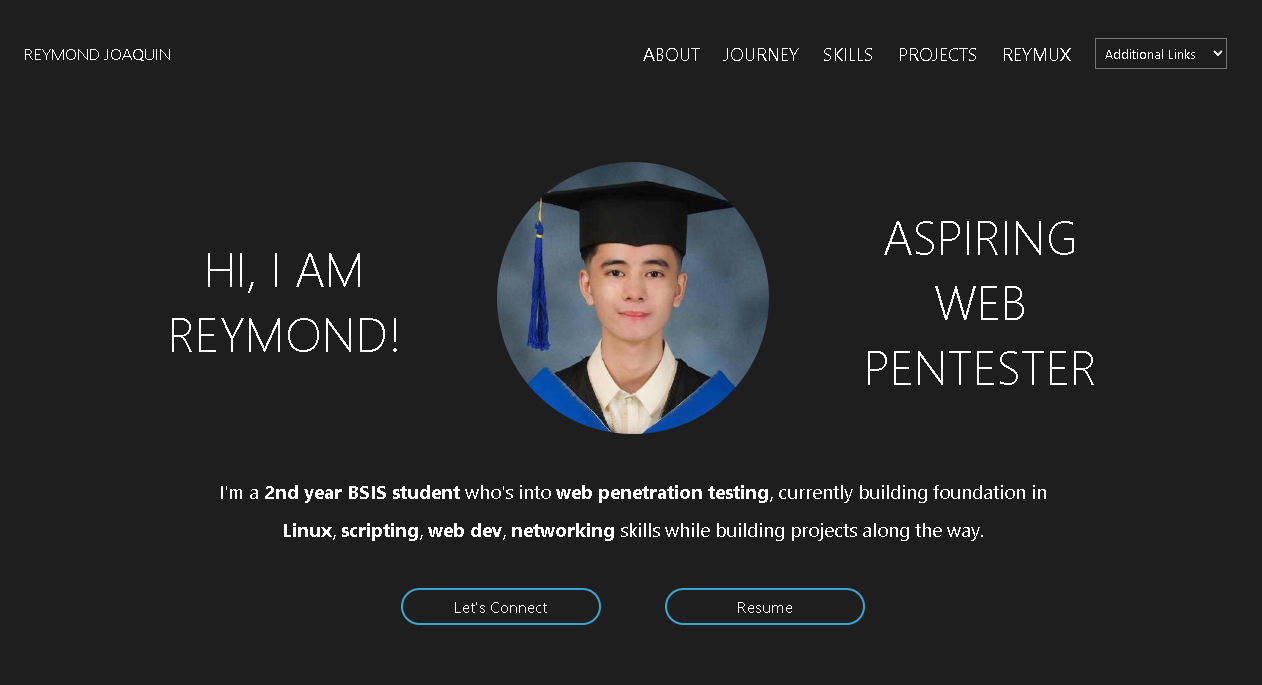
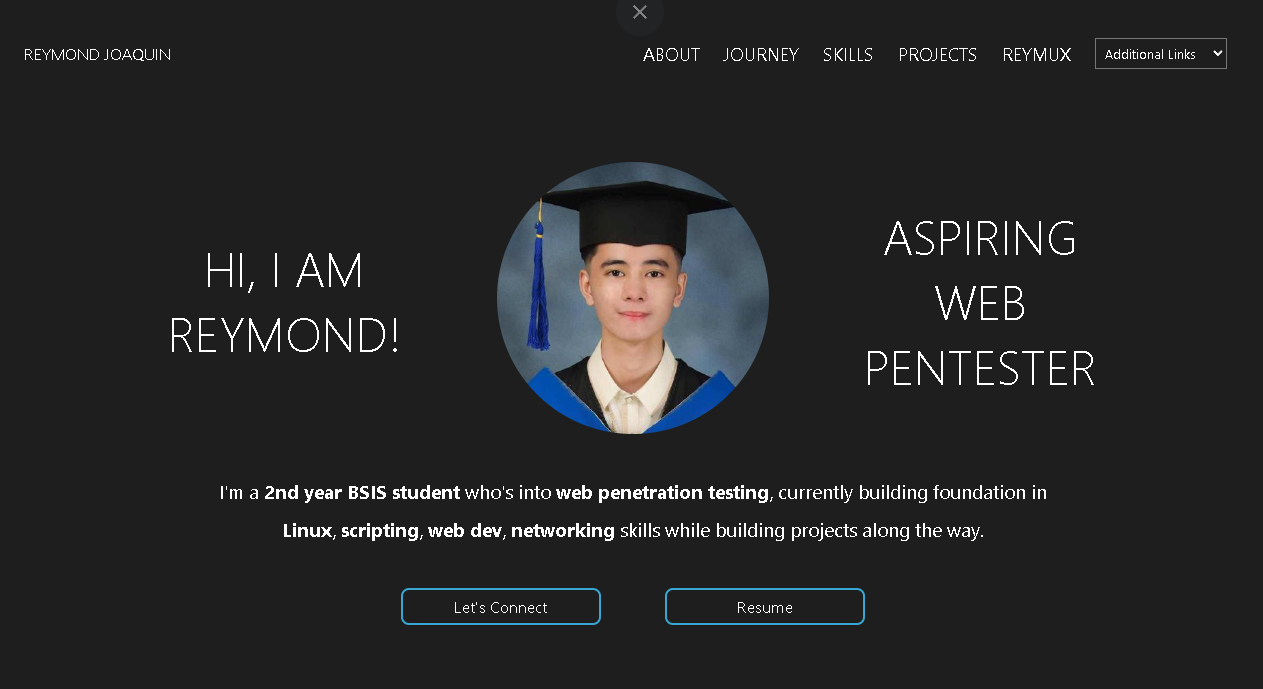
docs: update project section images and version numbers

diff --git a/index.html b/index.html
@@ -544,11 +544,11 @@
                         </div>
                     </div>
 
-                    <h3>Reycademy Website v0.2.1</h3>
+                    <h3>Reycademy Website v0.4.0</h3>
                     <p>A free cybersecurity education site with structured Tagalog videos and hands-on training.</p>
                     <p class="tech">HTML | CSS | JavaScript | Express | PostgreSQL</p>
                     <div class="project-links">
-                        <a href="https://github.com/R3ym0nd0/Reycademy" target="_blank" style="background-color: orange;">In progress</a>
+                        <a href="https://github.com/R3ym0nd0/Reycademy" target="_blank">View Source</a>
                     </div>
                 </div>
 
